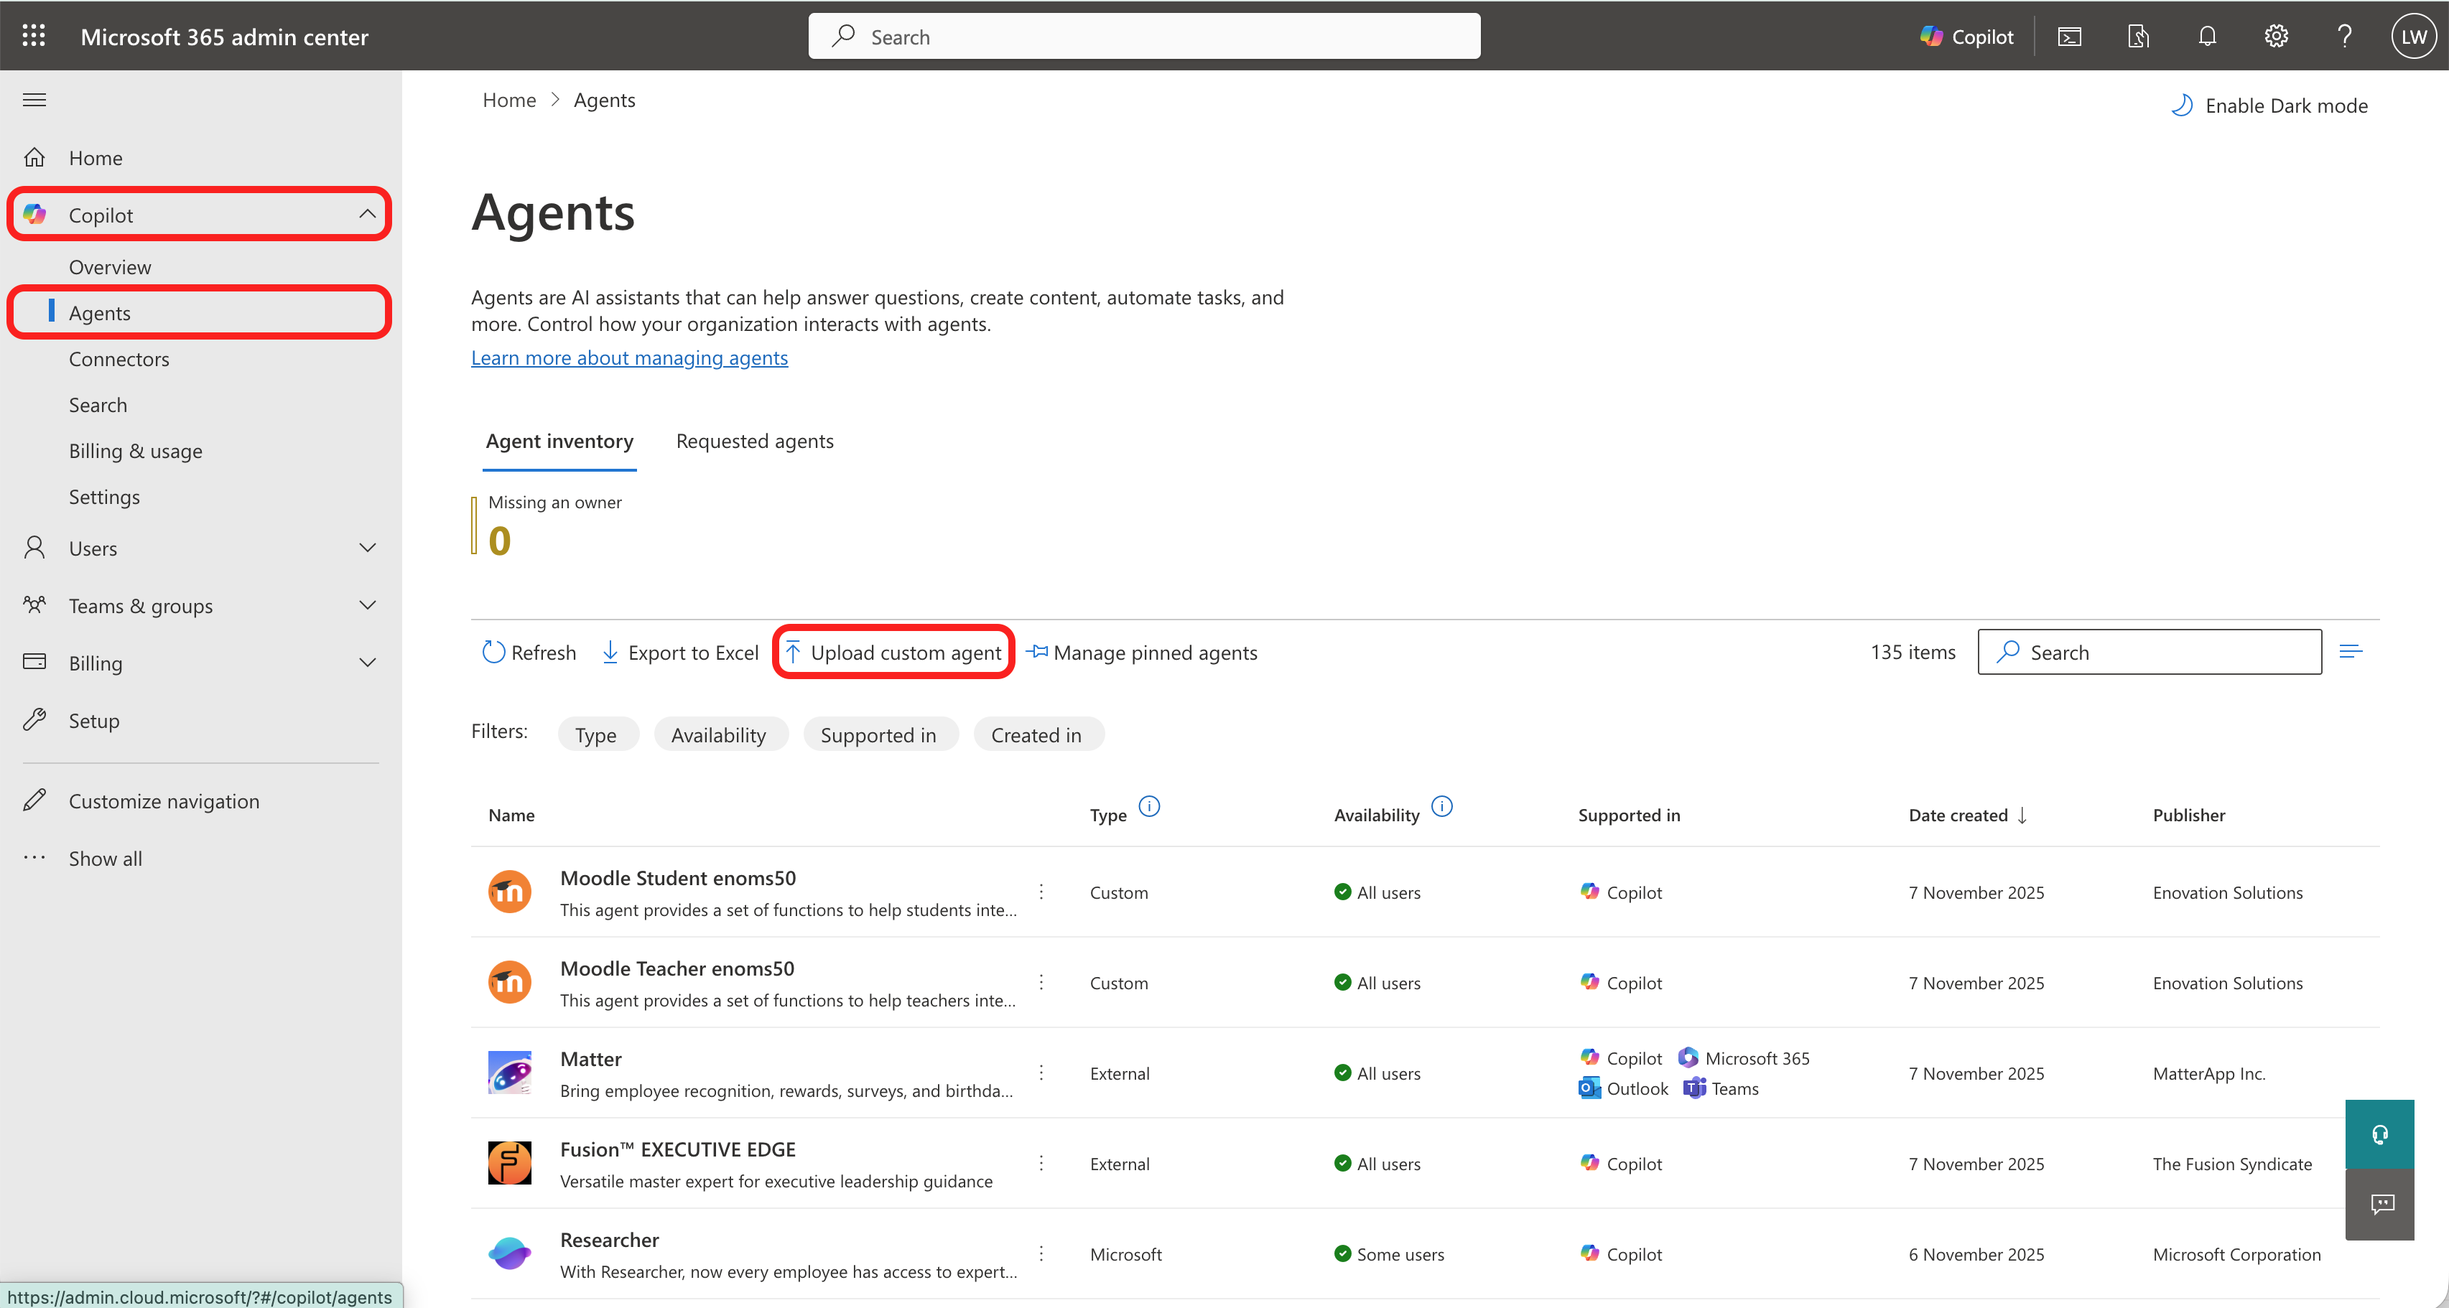
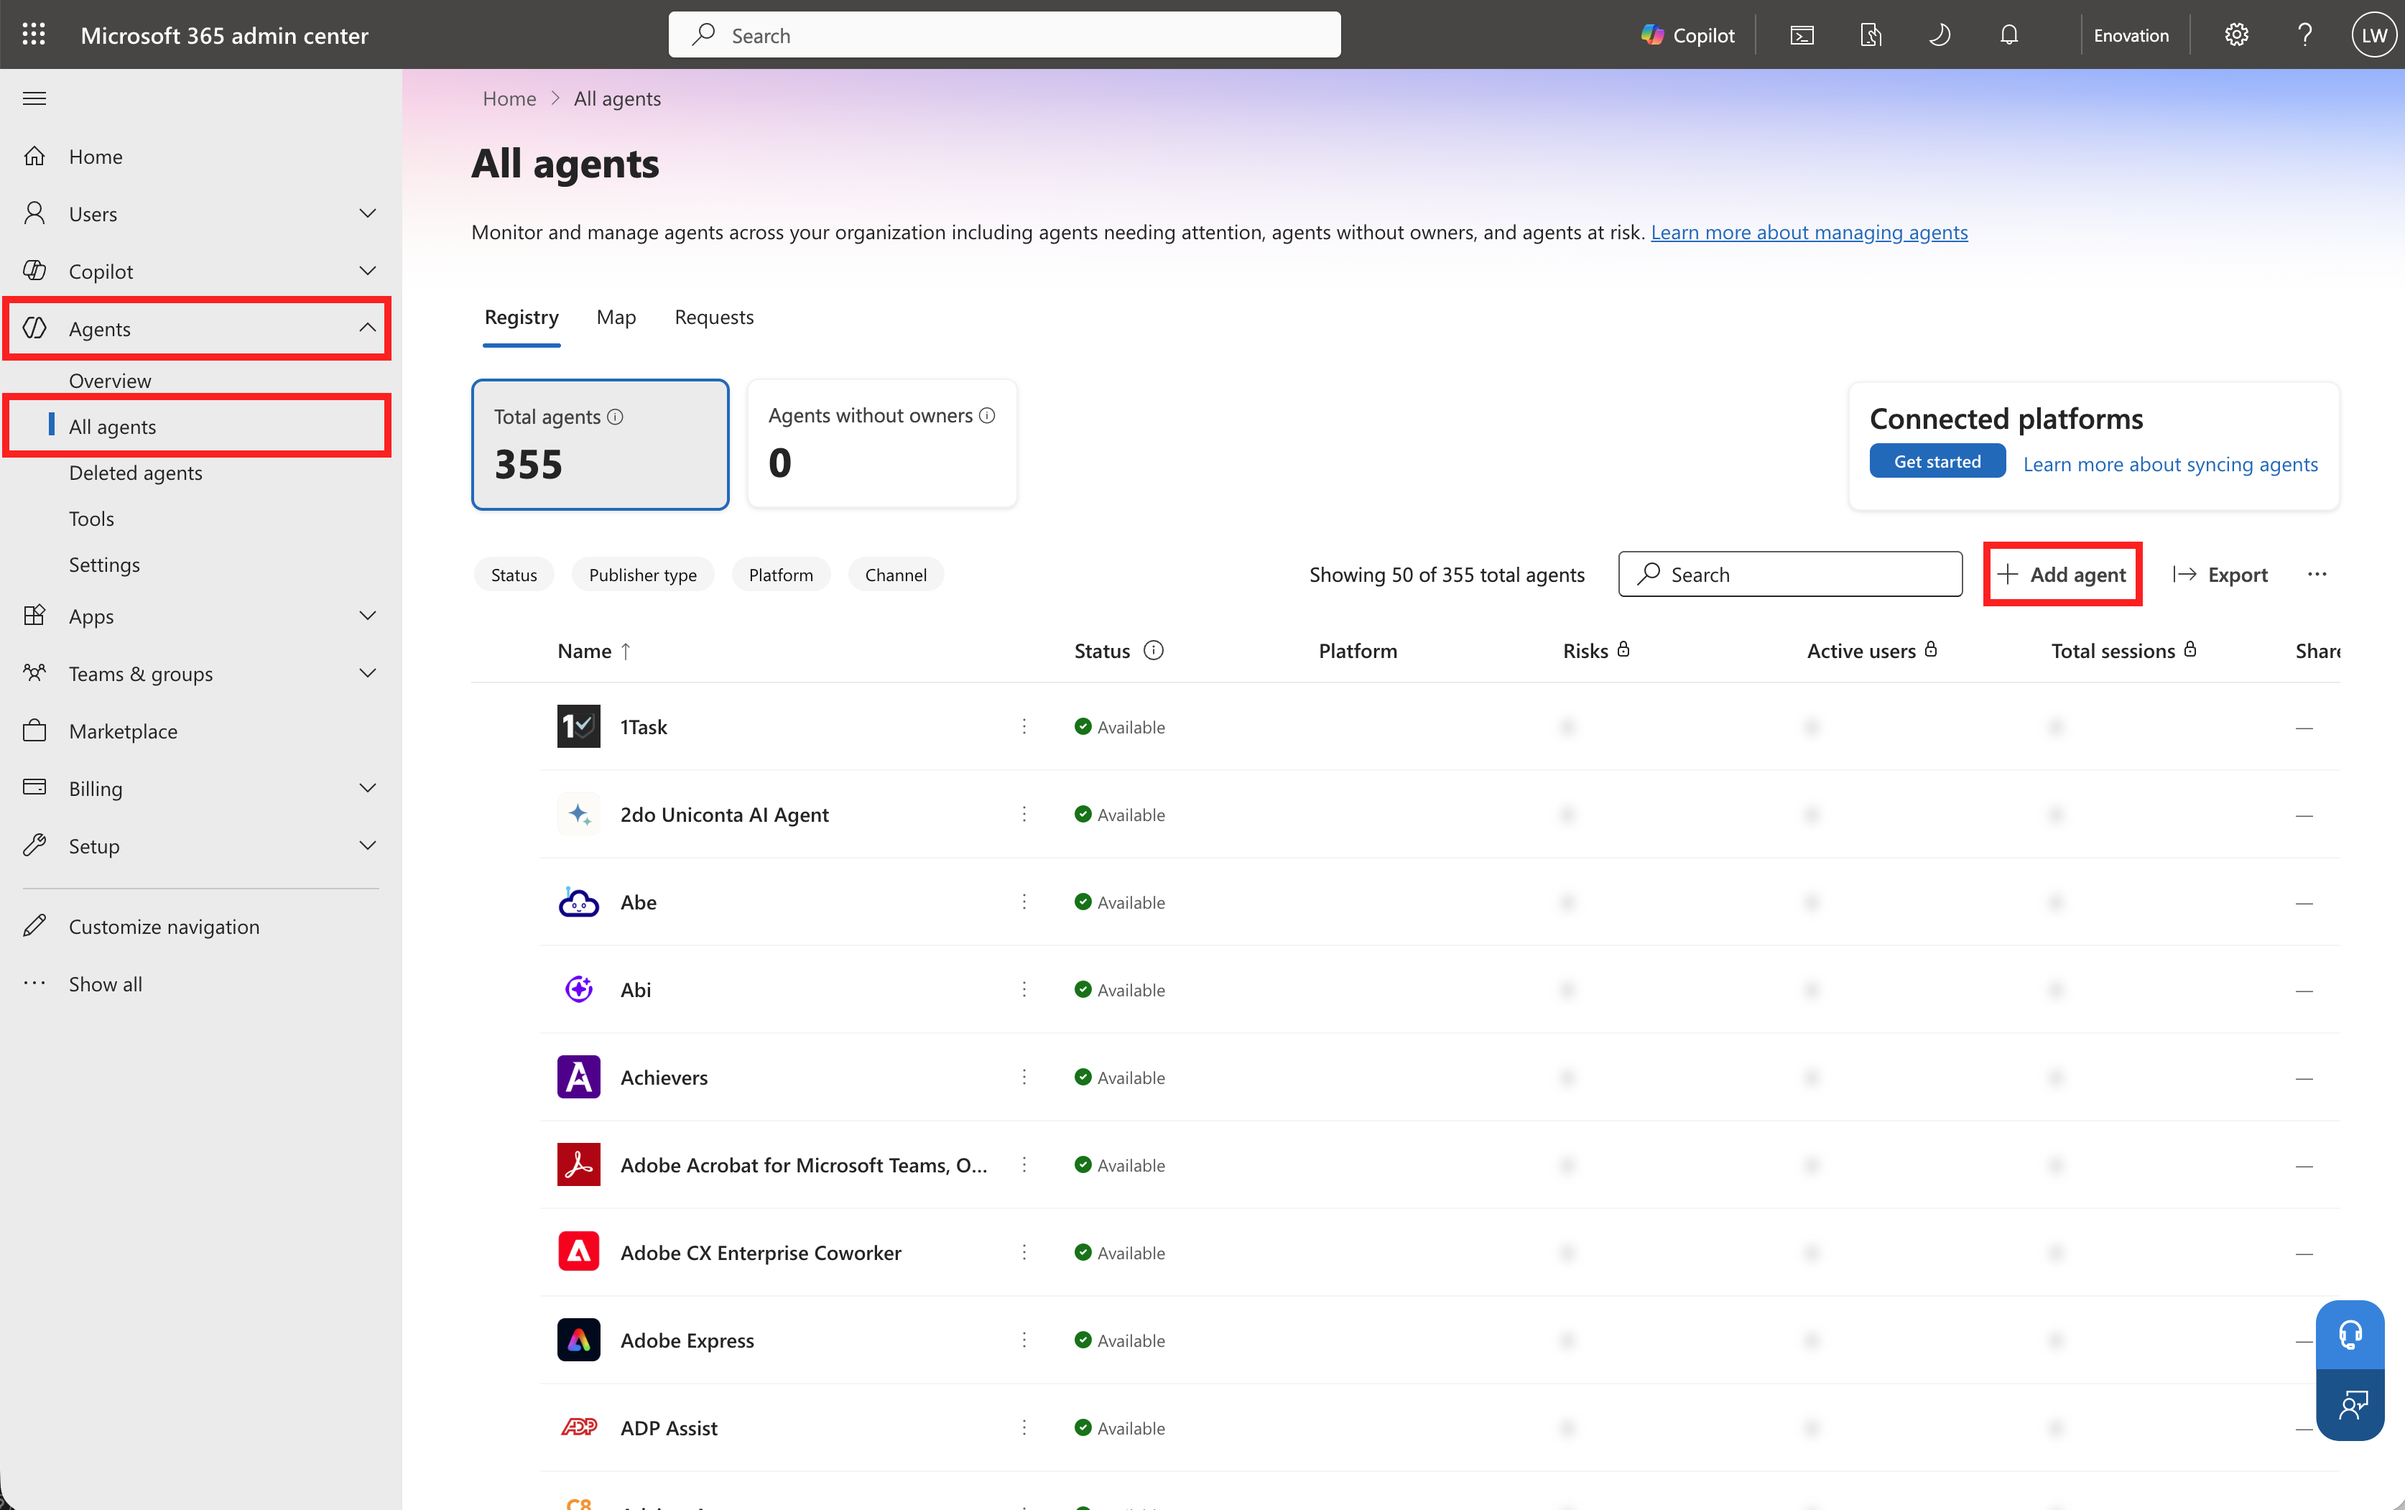
local_copilot: Update README for Moodle Marketplace rename and Teams developer portal changes

diff --git a/README.md b/README.md
@@ -59,7 +59,7 @@ The features provided by the declarative agents may be extended in future releas
 ## Plugin Installation
 
 1. Download and install required Moodle plugins (local_oauth2 and webservice_restful) if they are not installed already
-2. Download the plugin local_copilot from [GitHub](https://github.com/microsoft/moodle-local_copilot) or [Moodle plugin directory](https://moodle.org/plugins/local_copilot)
+2. Download the plugin local_copilot from [GitHub](https://github.com/microsoft/moodle-local_copilot) or [Moodle Marketplace](https://marketplace.moodle.com/plugins/local_copilot)
 3. Extract the plugin into the `local/copilot` directory of your Moodle installation
 4. Log in as an administrator and navigate to **Site Administration > Notifications** to complete the installation
 5. Follow the plugin configuration steps outlined below
@@ -75,7 +75,9 @@ The features provided by the declarative agents may be extended in future releas
 2. Click **Add OAuth client** button to create OAuth client for teacher. Following instructions on the page:
     - **Client ID** needs to be a string without space
     - **Redirect URI**: use `https://teams.microsoft.com/api/platform/v1.0/oAuthRedirect`
-    - **Scope**: Use default value provided
+    - **Scope**: Use default value provided for the teacher and student agents
+    - **Require PKCE**: unchecked
+    - **Generate client secret**: checked
     - After saving the changes, a **Client secret** will be generated for the OAuth client
 
 ![Add OAuth client](pix/screenshot_add_oauth_client.png)
@@ -88,33 +90,29 @@ The features provided by the declarative agents may be extended in future releas
 ### 2. Register OAuth Client on Microsoft Teams Developer Portal
 
 1. Go to [Microsoft Teams Developer Portal](https://dev.teams.microsoft.com), login as a Teams admin user when asked
-2. From the top banner, turn off **New Developer Portal** if it's on. The settings we need are not available in the new portal yet
-
-![Turn off new developer portal](pix/screenshot_turn_off_new_developer_portal.png)
-
-3. In the **Tools** menu, go to **OAuth client registration**
+2. In the **Tools** menu, go to **OAuth client registration**
 
 ![Teams developer portal](pix/screenshot_teams_developer_portal.png)
 
-4. Click **New OAuth client registration** button or **Register client** button. You will need to create two OAuth client registrations, for teacher and student agents respectively
-5. Fill in OAuth client details on the page:
+3. Click **New OAuth client registration** button. You will need to create two OAuth client registrations, for teacher and student agents respectively
+4. Fill in OAuth client details on the page:
     - **Registration name**: a name of your choice
     - **Base URL**: URL of the Moodle site
     - **Restrict usage by org**: My organization only
-    - **Restrict usage by app**: Choose "Any Teams app" option for now
+    - **Restrict usage by app**: Choose "Any Teams app" option
     - **Client ID**: Copy value from Moodle
     - **Client secret**: Copy value from Moodle
     - **Authorization endpoint**: `https://url.to.moodle/local/oauth2/login.php`
     - **Token endpoint**: `https://url.to.moodle/local/oauth2/token.php`
     - **Refresh endpoint**: `https://url.to.moodle/local/oauth2/refresh_token.php`
-    - **Scope**: Copy value from Moodle. Note scopes are separated by commas on this page
+    - **Scope**: Copy value from Moodle. Note scopes are separated by commas on this page, rather than spaces as in Moodle
     - **Enable Proof Key for Code Exchange (PKCE)**: unchecked
     - **Client password authentication method**: Request body parameters (default) 
-6. After saving the changes, an **OAuth client registration ID** will be created. Note its value
+5. After saving the changes, an **OAuth client registration ID** will be created. Note its value
 
 ![Teams OAuth client registration](pix/screenshot_teams_oauth_client_registration_id.png)
 
-7. Repeat the steps to create OAuth client registration ID for student
+6. Repeat the steps to create OAuth client registration ID for student
 
 ### 3. Copilot Plugin Basic Configuration in Moodle
 
@@ -125,7 +123,7 @@ The features provided by the declarative agents may be extended in future releas
     - Configure Microsoft 365 Copilot Web Services
     - Set appropriate capabilities for authenticated users
 3. In the **Copilot OAuth clients** selector, select all OAuth clients to be used for Microsoft 365 Copilot integration
-4. You may need to save changes on the page at this stage
+4. You need to save changes on the page at this stage
 5. After changes in the **Copilot OAuth clients** setting are saved, select the OAuth client to be used by teacher and students for authentication in the **Teacher OAuth client ID** and **Student OAuth client ID** settings
 6. Save changes
 
@@ -137,32 +135,34 @@ The features provided by the declarative agents may be extended in future releas
 
 Navigate to **Site Administration > Plugins > Local plugins > Microsoft 365 Copilot > Configure teacher agent app**. Configure the following settings:
 
-- Agent app external ID (use default unless you need multiple teacher apps)
-- Agent app names and descriptions
-- App version (format: major.minor.patch)
-- Accent color (hexadecimal)
-- Agent display name
-- Agent description and instructions
-- Upload color icon (192x192 PNG) and outline icon (32x32 PNG). Default icons are provided
-- Fill the OAuth client registration ID created on Microsoft Teams Developer Portal in the **Teams developer portal OAuth client registration ID** field
-- Provide declarative agent plugin details
+- **External ID** Use default unless you need multiple teacher apps. If you need multiple teacher apps, use a unique GUID for each app
+- **Agent ap short and full names** This is used for Microsoft 365 admins to manage agent apps in the Microsoft 365 Admin Center and Teams Admin Center
+- **App version** format: major.minor.patch. This value is shared between teacher and student apps, and is automatically incremented on setting changes
+- **Agent app short and full descriptions** This is used for Microsoft 365 admins to manage agent apps in the Microsoft 365 Admin Center and Teams Admin Center
+- **Accent color** (hexadecimal)
+- **Agent name** This is used for Microsoft 365 users to identify the agent in Microsoft 365 Copilot and Copilot Chat
+- **Agent description** This is used for Microsoft 365 users to identify the agent in Microsoft 365 Copilot and Copilot Chat
+- **Agent instructions** This is used by Microsoft 365 Copilot to understand the agent's capabilities and how to interact with it
+- **Color icon** (192x192 PNG) and **outline icon** (32x32 PNG). Default icons are provided
+- Fill the "OAuth client registration ID" created on Microsoft Teams Developer Portal in the **Teams developer portal OAuth client registration ID** field
+- **Declarative agent plugin name and description** These are displayed to Microsoft 365 users when they interact with the agent in Microsoft 365 Copilot and Copilot Chat
 - Configure optional agent capabilities and knowledge source
 
-Save the configuration. Download the manifest file (app package zip file).
+**Save the configuration**, and then download the manifest file (app package zip file).
 
-![Downlod manifest file](pix/screenshot_download_manifest_file.png)
+![Download manifest file](pix/screenshot_download_manifest_file.png)
 
 ### 2. Moodle Student agent
 
-Navigate to **Site Administration > Plugins > Local plugins > Microsoft 365 Copilot > Configure student agent app**. Configure similar settings as for the teacher agent, with appropriate values for student users. Save the configuration. Download the manifest file (app package zip file).
+Navigate to **Site Administration > Plugins > Local plugins > Microsoft 365 Copilot > Configure student agent app**. Configure similar settings as for the teacher agent, with appropriate values for student users. **Save the configuration**, and then download the manifest file (app package zip file).
 
 ## Deploying Agents in Microsoft 365
 
 ### From the M365 Admin Center
   
 1. Log in to the [Microsoft 365 Admin Center](https://admin.microsoft.com)
-2. Navigate to `Copilot`, and select `Agents`
-3. Click on `Upload custom agent` button
+2. Navigate to `Agents`, and select `All agents`.
+3. Click on `Add agent` button
 4. Upload the manifest file downloaded from Moodle
 5. Define which users or groups will have access to the agent, accept permissions and deploy
 6. Learn more at [Manage Office Add-ins through Integrated Apps](https://learn.microsoft.com/en-us/microsoft-365/admin/manage/test-and-deploy-microsoft-365-apps)
@@ -228,7 +228,7 @@ Navigate to **Site Administration > Plugins > Local plugins > Microsoft 365 Copi
 ### Support
 
 For support and further information:
-- Check the [Moodle plugin directory page](https://moodle.org/plugins/local_copilot)
+- Check the [Moodle Marketplace page](https://marketplace.moodle.com/plugins/local_copilot)
 - Check the [plugin's GitHub repository](https://github.com/microsoft/moodle-local_copilot)
 
 ## Technical Details
